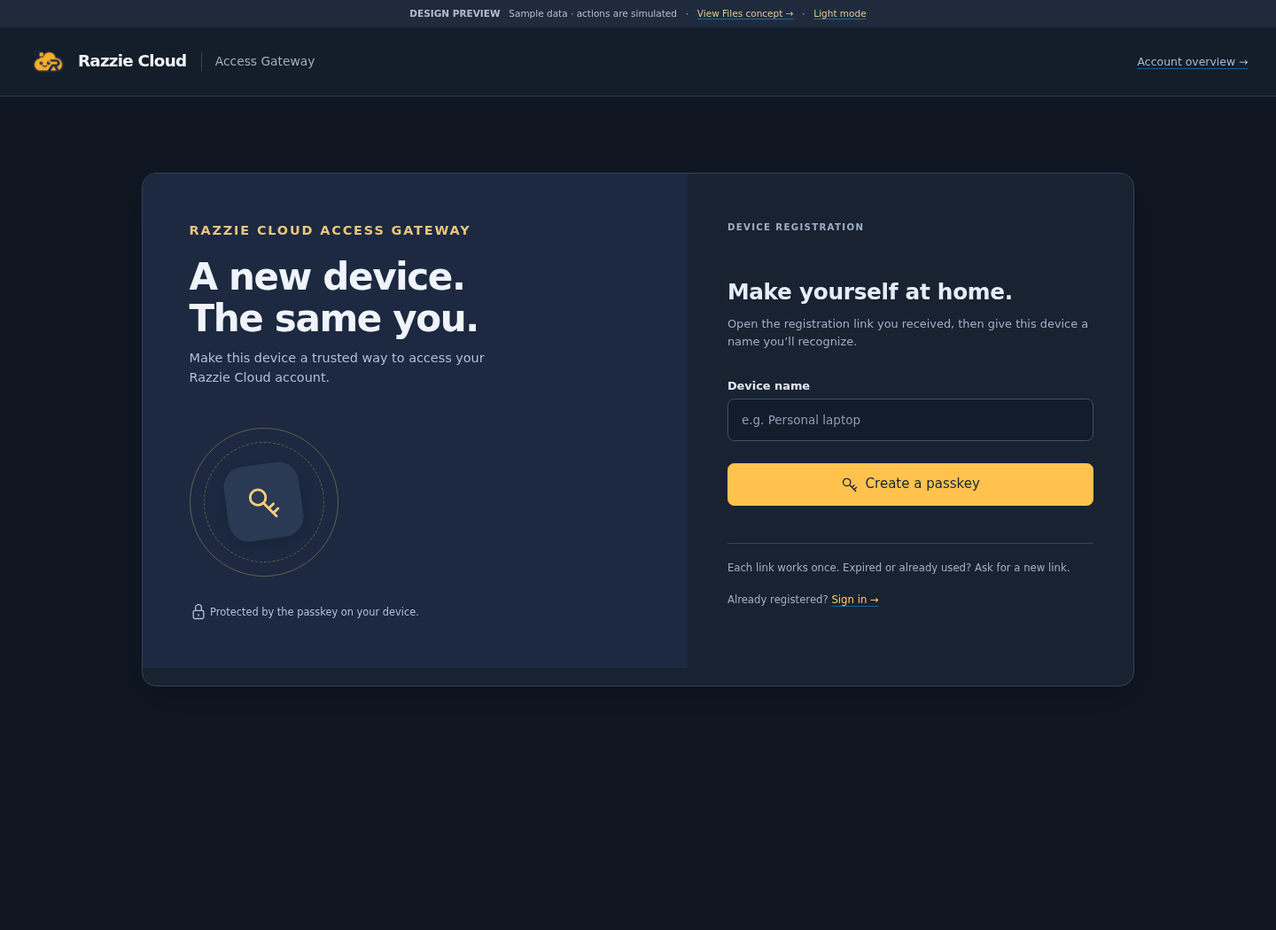
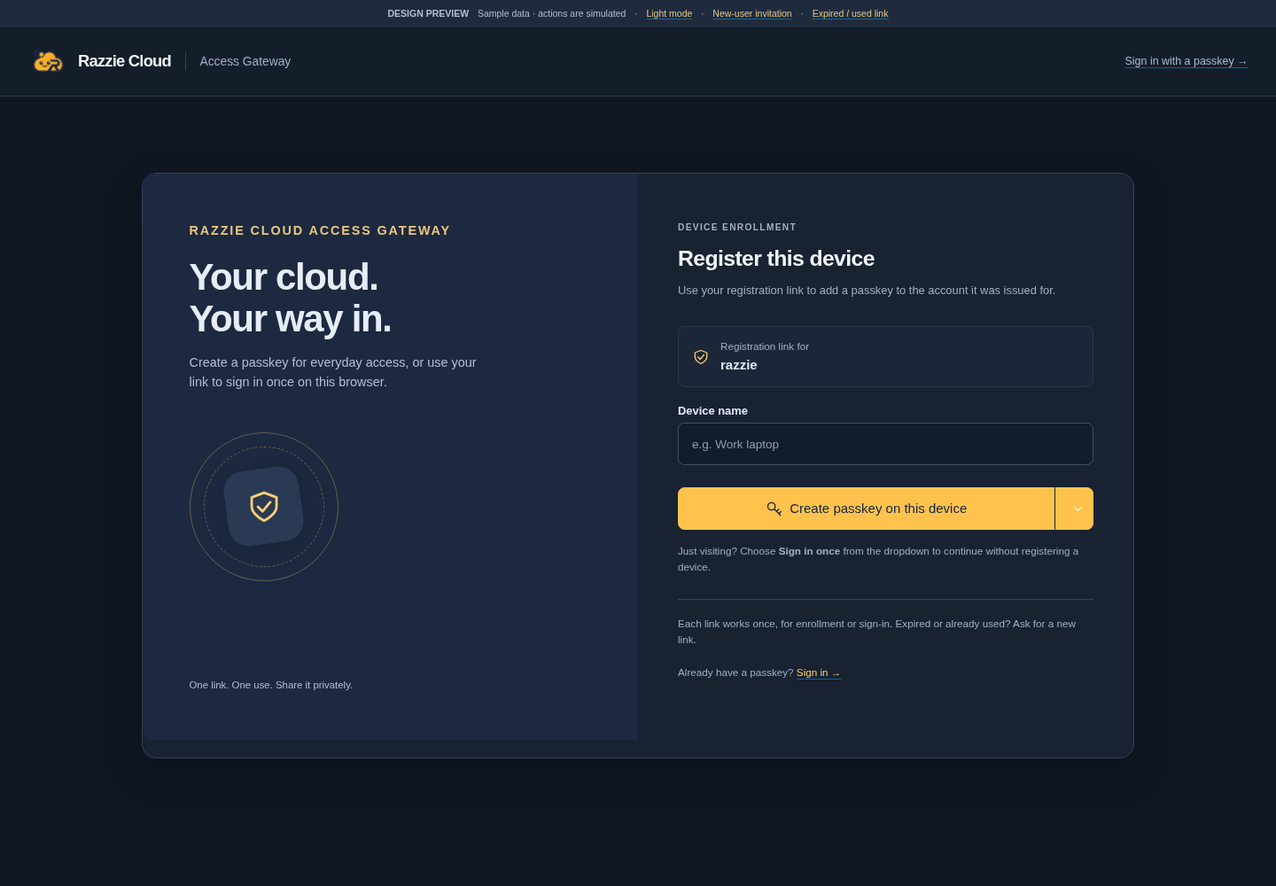
Mock up one-time login from registration links

diff --git a/docs/mockups/dark/register.html b/docs/mockups/dark/register.html
@@ -2,8 +2,22 @@
 <html lang="en" data-theme="dark"><head>
 <meta charset="utf-8"><meta name="viewport" content="width=device-width, initial-scale=1">
 <meta name="htmx-config" content='{"allowEval":false,"includeIndicatorStyles":false,"selfRequestsOnly":true,"historyCacheSize":0}'>
-<meta http-equiv="Content-Security-Policy" content="default-src 'self'; script-src 'self'; style-src 'self'; img-src 'self' data:; connect-src 'self'; object-src 'none'; base-uri 'none'">
-<link rel="icon" href="../../../internal/web/static/razzie-cloud-logo.png"><meta name="referrer" content="no-referrer"><title>Device registration · Access Gateway concept · Dark</title>
-<link rel="stylesheet" href="../../../internal/web/static/pico.min.css"><link rel="stylesheet" href="../mockup.css"><link rel="stylesheet" href="../dark.css">
+<meta http-equiv="Content-Security-Policy" content="default-src 'self'; script-src 'self'; style-src 'self'; img-src 'self' data:; connect-src 'self'; object-src 'none'; base-uri 'none'; form-action 'self'">
+<meta name="referrer" content="no-referrer"><title>Registration link · Access Gateway concept</title>
+<link rel="icon" href="../../../internal/web/static/razzie-cloud-logo.png"><link rel="stylesheet" href="../../../internal/web/static/pico.min.css"><link rel="stylesheet" href="../mockup.css">
+<link rel="stylesheet" href="../dark.css"><link rel="stylesheet" href="../register.css">
 <script defer src="../../../internal/web/static/htmx.min.js"></script></head><body>
-<a href="#main" class="skip-link">Skip to content</a><div class="preview-bar"><strong>DESIGN PREVIEW</strong><span>Sample data · actions are simulated</span><span>·</span><a href="../../../../files/docs/mockups/dark/index.html">View Files concept →</a><span>·</span><a href="../register.html">Light mode</a></div><header class="topbar"><a class="brand" href="index.html"><img class="brand-mark" src="../../../internal/web/static/razzie-cloud-logo.png" width="46" height="46" alt="">Razzie Cloud<span class="service-name">Access Gateway</span></a><div class="topbar-right"><a href="index.html">Account overview →</a></div></header><main id="main"><div class="auth-wrap"><section class="auth-story"><p class="eyebrow">Razzie Cloud Access Gateway</p><h1>A new device.<br>The same you.</h1><p>Make this device a trusted way to access your Razzie Cloud account.</p><div class="auth-art"><span><svg class="icon " width="20" height="20" viewBox="0 0 24 24" fill="none" stroke="currentColor" stroke-width="1.6" stroke-linecap="round" stroke-linejoin="round" aria-hidden="true"><circle cx="8" cy="9" r="5"/><path d="m12 13 8 8m-2-2 3-3m-6 0 3-3"/></svg></span></div><p class="story-footer"><svg class="icon " width="20" height="20" viewBox="0 0 24 24" fill="none" stroke="currentColor" stroke-width="1.6" stroke-linecap="round" stroke-linejoin="round" aria-hidden="true"><rect x="5" y="10" width="14" height="11" rx="2"/><path d="M8 10V6a4 4 0 0 1 8 0v4m-4 5v2"/></svg> Protected by the passkey on your device.</p></section><section class="auth-form"><p class="eyebrow">Device registration</p><h2>Make yourself at home.</h2><p>Open the registration link you received, then give this device a name you’ll recognize.</p><form action="../fragments/registered.html" hx-get="../fragments/registered.html" hx-target="#auth-result"><label>Device name<input name="deviceName" maxlength="80" required autocomplete="off" placeholder="e.g. Personal laptop"></label><button type="submit"><svg class="icon " width="20" height="20" viewBox="0 0 24 24" fill="none" stroke="currentColor" stroke-width="1.6" stroke-linecap="round" stroke-linejoin="round" aria-hidden="true"><circle cx="8" cy="9" r="5"/><path d="m12 13 8 8m-2-2 3-3m-6 0 3-3"/></svg>Create a passkey</button></form><div id="auth-result" role="status"></div><p class="auth-footnote">Each link works once. Expired or already used? Ask for a new link.<br><br>Already registered? <a href="login.html">Sign in →</a></p></section></div></main></body></html>
+<a href="#main" class="skip-link">Skip to content</a>
+<div class="preview-bar"><strong>DESIGN PREVIEW</strong><span>Sample data · actions are simulated</span><span>·</span><a href="../register.html">Light mode</a><span>·</span><a href="register-invitation.html">New-user invitation</a> · <a href="fragments/registration-unavailable.html" hx-get="fragments/registration-unavailable.html" hx-params="none" hx-target="#registration-panel" >Expired / used link</a></div>
+<header class="topbar"><div class="brand-group"><a class="brand" href="../../../../landing/index.html"><img class="brand-mark" src="../../../internal/web/static/razzie-cloud-logo.png" width="46" height="46" alt="">Razzie Cloud</a><a class="service-name" href="index.html">Access Gateway</a></div><div class="topbar-right"><a href="login.html">Sign in with a passkey →</a></div></header>
+<main id="main"><div class="auth-wrap"><section class="auth-story"><p class="eyebrow">Razzie Cloud Access Gateway</p><h2>Your cloud.<br>Your way in.</h2><p>Create a passkey for everyday access, or use your link to sign in once on this browser.</p><div class="auth-art"><span><svg class="icon" width="20" height="20" viewBox="0 0 24 24" fill="none" stroke="currentColor" stroke-width="1.6" stroke-linecap="round" stroke-linejoin="round" aria-hidden="true"><path d="m12 3 8 3v6c0 5-8 9-8 9s-8-4-8-9V6Z"/><path d="m8 12 3 3 5-6"/></svg></span></div><p class="story-footer">One link. One use. Share it privately.</p></section>
+<section class="auth-form" id="registration-panel" aria-label="Use your registration link"><p class="eyebrow">Device enrollment</p><h1>Register this device</h1><p>Use your registration link to add a passkey to the account it was issued for.</p>
+<form action="fragments/registered.html" hx-get="fragments/registered.html" hx-params="none" hx-target="#registration-panel"><div class="link-context"><svg class="icon" width="20" height="20" viewBox="0 0 24 24" fill="none" stroke="currentColor" stroke-width="1.6" stroke-linecap="round" stroke-linejoin="round" aria-hidden="true"><path d="m12 3 8 3v6c0 5-8 9-8 9s-8-4-8-9V6Z"/><path d="m8 12 3 3 5-6"/></svg><div><small>Registration link for</small><strong>razzie</strong></div></div>
+<label>Device name<input id="device-name" maxlength="80" required autocomplete="off" placeholder="e.g. Work laptop"></label>
+<div role="group" class="registration-actions" aria-label="Registration link action">
+<button id="registration-submit" type="submit"><svg class="icon" width="20" height="20" viewBox="0 0 24 24" fill="none" stroke="currentColor" stroke-width="1.6" stroke-linecap="round" stroke-linejoin="round" aria-hidden="true"><circle cx="8" cy="9" r="5"/><path d="m12 13 8 8m-2-2 3-3m-6 0 3-3"/></svg><span>Create passkey on this device</span></button>
+<details class="dropdown"><summary role="button" aria-label="Choose how to use this link"></summary><ul>
+<li><a href="fragments/registration-enroll.html" hx-get="fragments/registration-enroll.html" hx-params="none" hx-target="#registration-panel" aria-current="true"><strong>Create a passkey</strong><small>Register this device · Default</small></a></li>
+<li><a href="fragments/login-once.html" hx-get="fragments/login-once.html" hx-params="none" hx-target="#registration-panel" aria-current="false"><strong>Sign in once</strong><small>Use this browser without adding a device</small></a></li>
+</ul></details></div></form>
+<p class="action-help">Just visiting? Choose <strong>Sign in once</strong> from the dropdown to continue without registering a device.</p><p class="auth-footnote">Each link works once, for enrollment or sign-in. Expired or already used? Ask for a new link.<br><br>Already have a passkey? <a href="login.html">Sign in →</a></p></section></div></main></body></html>

diff --git a/docs/mockups/register.html b/docs/mockups/register.html
@@ -2,8 +2,22 @@
 <html lang="en" data-theme="light"><head>
 <meta charset="utf-8"><meta name="viewport" content="width=device-width, initial-scale=1">
 <meta name="htmx-config" content='{"allowEval":false,"includeIndicatorStyles":false,"selfRequestsOnly":true,"historyCacheSize":0}'>
-<meta http-equiv="Content-Security-Policy" content="default-src 'self'; script-src 'self'; style-src 'self'; img-src 'self' data:; connect-src 'self'; object-src 'none'; base-uri 'none'">
-<link rel="icon" href="../../internal/web/static/razzie-cloud-logo.png"><meta name="referrer" content="no-referrer"><title>Device registration · Access Gateway concept</title>
-<link rel="stylesheet" href="../../internal/web/static/pico.min.css"><link rel="stylesheet" href="mockup.css">
+<meta http-equiv="Content-Security-Policy" content="default-src 'self'; script-src 'self'; style-src 'self'; img-src 'self' data:; connect-src 'self'; object-src 'none'; base-uri 'none'; form-action 'self'">
+<meta name="referrer" content="no-referrer"><title>Registration link · Access Gateway concept</title>
+<link rel="icon" href="../../internal/web/static/razzie-cloud-logo.png"><link rel="stylesheet" href="../../internal/web/static/pico.min.css"><link rel="stylesheet" href="mockup.css">
+<link rel="stylesheet" href="register.css">
 <script defer src="../../internal/web/static/htmx.min.js"></script></head><body>
-<a href="#main" class="skip-link">Skip to content</a><div class="preview-bar"><strong>DESIGN PREVIEW</strong><span>Sample data · actions are simulated</span><span>·</span><a href="../../../files/docs/mockups/index.html">View Files concept →</a><span>·</span><a href="dark/register.html">Dark mode</a></div><header class="topbar"><a class="brand" href="index.html"><img class="brand-mark" src="../../internal/web/static/razzie-cloud-logo.png" width="46" height="46" alt="">Razzie Cloud<span class="service-name">Access Gateway</span></a><div class="topbar-right"><a href="index.html">Account overview →</a></div></header><main id="main"><div class="auth-wrap"><section class="auth-story"><p class="eyebrow">Razzie Cloud Access Gateway</p><h1>A new device.<br>The same you.</h1><p>Make this device a trusted way to access your Razzie Cloud account.</p><div class="auth-art"><span><svg class="icon " width="20" height="20" viewBox="0 0 24 24" fill="none" stroke="currentColor" stroke-width="1.6" stroke-linecap="round" stroke-linejoin="round" aria-hidden="true"><circle cx="8" cy="9" r="5"/><path d="m12 13 8 8m-2-2 3-3m-6 0 3-3"/></svg></span></div><p class="story-footer"><svg class="icon " width="20" height="20" viewBox="0 0 24 24" fill="none" stroke="currentColor" stroke-width="1.6" stroke-linecap="round" stroke-linejoin="round" aria-hidden="true"><rect x="5" y="10" width="14" height="11" rx="2"/><path d="M8 10V6a4 4 0 0 1 8 0v4m-4 5v2"/></svg> Protected by the passkey on your device.</p></section><section class="auth-form"><p class="eyebrow">Device registration</p><h2>Make yourself at home.</h2><p>Open the registration link you received, then give this device a name you’ll recognize.</p><form action="fragments/registered.html" hx-get="fragments/registered.html" hx-target="#auth-result"><label>Device name<input name="deviceName" maxlength="80" required autocomplete="off" placeholder="e.g. Personal laptop"></label><button type="submit"><svg class="icon " width="20" height="20" viewBox="0 0 24 24" fill="none" stroke="currentColor" stroke-width="1.6" stroke-linecap="round" stroke-linejoin="round" aria-hidden="true"><circle cx="8" cy="9" r="5"/><path d="m12 13 8 8m-2-2 3-3m-6 0 3-3"/></svg>Create a passkey</button></form><div id="auth-result" role="status"></div><p class="auth-footnote">Each link works once. Expired or already used? Ask for a new link.<br><br>Already registered? <a href="login.html">Sign in →</a></p></section></div></main></body></html>
+<a href="#main" class="skip-link">Skip to content</a>
+<div class="preview-bar"><strong>DESIGN PREVIEW</strong><span>Sample data · actions are simulated</span><span>·</span><a href="dark/register.html">Dark mode</a><span>·</span><a href="register-invitation.html">New-user invitation</a> · <a href="fragments/registration-unavailable.html" hx-get="fragments/registration-unavailable.html" hx-params="none" hx-target="#registration-panel" >Expired / used link</a></div>
+<header class="topbar"><div class="brand-group"><a class="brand" href="../../../landing/index.html"><img class="brand-mark" src="../../internal/web/static/razzie-cloud-logo.png" width="46" height="46" alt="">Razzie Cloud</a><a class="service-name" href="index.html">Access Gateway</a></div><div class="topbar-right"><a href="login.html">Sign in with a passkey →</a></div></header>
+<main id="main"><div class="auth-wrap"><section class="auth-story"><p class="eyebrow">Razzie Cloud Access Gateway</p><h2>Your cloud.<br>Your way in.</h2><p>Create a passkey for everyday access, or use your link to sign in once on this browser.</p><div class="auth-art"><span><svg class="icon" width="20" height="20" viewBox="0 0 24 24" fill="none" stroke="currentColor" stroke-width="1.6" stroke-linecap="round" stroke-linejoin="round" aria-hidden="true"><path d="m12 3 8 3v6c0 5-8 9-8 9s-8-4-8-9V6Z"/><path d="m8 12 3 3 5-6"/></svg></span></div><p class="story-footer">One link. One use. Share it privately.</p></section>
+<section class="auth-form" id="registration-panel" aria-label="Use your registration link"><p class="eyebrow">Device enrollment</p><h1>Register this device</h1><p>Use your registration link to add a passkey to the account it was issued for.</p>
+<form action="fragments/registered.html" hx-get="fragments/registered.html" hx-params="none" hx-target="#registration-panel"><div class="link-context"><svg class="icon" width="20" height="20" viewBox="0 0 24 24" fill="none" stroke="currentColor" stroke-width="1.6" stroke-linecap="round" stroke-linejoin="round" aria-hidden="true"><path d="m12 3 8 3v6c0 5-8 9-8 9s-8-4-8-9V6Z"/><path d="m8 12 3 3 5-6"/></svg><div><small>Registration link for</small><strong>razzie</strong></div></div>
+<label>Device name<input id="device-name" maxlength="80" required autocomplete="off" placeholder="e.g. Work laptop"></label>
+<div role="group" class="registration-actions" aria-label="Registration link action">
+<button id="registration-submit" type="submit"><svg class="icon" width="20" height="20" viewBox="0 0 24 24" fill="none" stroke="currentColor" stroke-width="1.6" stroke-linecap="round" stroke-linejoin="round" aria-hidden="true"><circle cx="8" cy="9" r="5"/><path d="m12 13 8 8m-2-2 3-3m-6 0 3-3"/></svg><span>Create passkey on this device</span></button>
+<details class="dropdown"><summary role="button" aria-label="Choose how to use this link"></summary><ul>
+<li><a href="fragments/registration-enroll.html" hx-get="fragments/registration-enroll.html" hx-params="none" hx-target="#registration-panel" aria-current="true"><strong>Create a passkey</strong><small>Register this device · Default</small></a></li>
+<li><a href="fragments/login-once.html" hx-get="fragments/login-once.html" hx-params="none" hx-target="#registration-panel" aria-current="false"><strong>Sign in once</strong><small>Use this browser without adding a device</small></a></li>
+</ul></details></div></form>
+<p class="action-help">Just visiting? Choose <strong>Sign in once</strong> from the dropdown to continue without registering a device.</p><p class="auth-footnote">Each link works once, for enrollment or sign-in. Expired or already used? Ask for a new link.<br><br>Already have a passkey? <a href="login.html">Sign in →</a></p></section></div></main></body></html>

diff --git a/docs/mockups/dark/register-invitation.html b/docs/mockups/dark/register-invitation.html
@@ -1,0 +1,18 @@
+<!doctype html>
+<html lang="en" data-theme="dark"><head>
+<meta charset="utf-8"><meta name="viewport" content="width=device-width, initial-scale=1">
+<meta name="htmx-config" content='{"allowEval":false,"includeIndicatorStyles":false,"selfRequestsOnly":true,"historyCacheSize":0}'>
+<meta http-equiv="Content-Security-Policy" content="default-src 'self'; script-src 'self'; style-src 'self'; img-src 'self' data:; connect-src 'self'; object-src 'none'; base-uri 'none'; form-action 'self'">
+<meta name="referrer" content="no-referrer"><title>Registration link · Access Gateway concept</title>
+<link rel="icon" href="../../../internal/web/static/razzie-cloud-logo.png"><link rel="stylesheet" href="../../../internal/web/static/pico.min.css"><link rel="stylesheet" href="../mockup.css">
+<link rel="stylesheet" href="../dark.css"><link rel="stylesheet" href="../register.css">
+<script defer src="../../../internal/web/static/htmx.min.js"></script></head><body>
+<a href="#main" class="skip-link">Skip to content</a>
+<div class="preview-bar"><strong>DESIGN PREVIEW</strong><span>Sample data · actions are simulated</span><span>·</span><a href="../register-invitation.html">Light mode</a><span>·</span><a href="register.html">Existing account</a> · <a href="fragments/registration-unavailable.html" hx-get="fragments/registration-unavailable.html" hx-params="none" hx-target="#registration-panel" >Expired / used link</a></div>
+<header class="topbar"><div class="brand-group"><a class="brand" href="../../../../landing/index.html"><img class="brand-mark" src="../../../internal/web/static/razzie-cloud-logo.png" width="46" height="46" alt="">Razzie Cloud</a><a class="service-name" href="index.html">Access Gateway</a></div><div class="topbar-right"><a href="login.html">Sign in with a passkey →</a></div></header>
+<main id="main"><div class="auth-wrap"><section class="auth-story"><p class="eyebrow">Razzie Cloud Access Gateway</p><h2>Your cloud.<br>Your way in.</h2><p>Create a passkey for everyday access, or use your link to sign in once on this browser.</p><div class="auth-art"><span><svg class="icon" width="20" height="20" viewBox="0 0 24 24" fill="none" stroke="currentColor" stroke-width="1.6" stroke-linecap="round" stroke-linejoin="round" aria-hidden="true"><path d="m12 3 8 3v6c0 5-8 9-8 9s-8-4-8-9V6Z"/><path d="m8 12 3 3 5-6"/></svg></span></div><p class="story-footer">One link. One use. Share it privately.</p></section>
+<section class="auth-form" id="registration-panel" aria-label="Use your registration link"><p class="eyebrow">New-user invitation</p><h1>Create your account</h1><p>Choose a username and create your first passkey to set up your account.</p>
+<form action="fragments/registered.html" hx-get="fragments/registered.html" hx-params="none" hx-target="#registration-panel"><label>Choose your username<input id="invitation-username" maxlength="64" pattern="[A-Za-z0-9_.\-]{1,64}" autocomplete="username" autocapitalize="none" spellcheck="false" required placeholder="e.g. alex"></label>
+<label>Device name<input id="device-name" maxlength="80" required autocomplete="off" placeholder="e.g. Work laptop"></label>
+<button type="submit"><svg class="icon" width="20" height="20" viewBox="0 0 24 24" fill="none" stroke="currentColor" stroke-width="1.6" stroke-linecap="round" stroke-linejoin="round" aria-hidden="true"><circle cx="8" cy="9" r="5"/><path d="m12 13 8 8m-2-2 3-3m-6 0 3-3"/></svg>Create account and passkey</button></form>
+<p class="action-help">Your first passkey is required to create an account. One-time login is available for existing accounts.</p><p class="auth-footnote">Each link works once, for enrollment or sign-in. Expired or already used? Ask for a new link.<br><br>Already have a passkey? <a href="login.html">Sign in →</a></p></section></div></main></body></html>

diff --git a/docs/mockups/register-invitation.html b/docs/mockups/register-invitation.html
@@ -1,0 +1,18 @@
+<!doctype html>
+<html lang="en" data-theme="light"><head>
+<meta charset="utf-8"><meta name="viewport" content="width=device-width, initial-scale=1">
+<meta name="htmx-config" content='{"allowEval":false,"includeIndicatorStyles":false,"selfRequestsOnly":true,"historyCacheSize":0}'>
+<meta http-equiv="Content-Security-Policy" content="default-src 'self'; script-src 'self'; style-src 'self'; img-src 'self' data:; connect-src 'self'; object-src 'none'; base-uri 'none'; form-action 'self'">
+<meta name="referrer" content="no-referrer"><title>Registration link · Access Gateway concept</title>
+<link rel="icon" href="../../internal/web/static/razzie-cloud-logo.png"><link rel="stylesheet" href="../../internal/web/static/pico.min.css"><link rel="stylesheet" href="mockup.css">
+<link rel="stylesheet" href="register.css">
+<script defer src="../../internal/web/static/htmx.min.js"></script></head><body>
+<a href="#main" class="skip-link">Skip to content</a>
+<div class="preview-bar"><strong>DESIGN PREVIEW</strong><span>Sample data · actions are simulated</span><span>·</span><a href="dark/register-invitation.html">Dark mode</a><span>·</span><a href="register.html">Existing account</a> · <a href="fragments/registration-unavailable.html" hx-get="fragments/registration-unavailable.html" hx-params="none" hx-target="#registration-panel" >Expired / used link</a></div>
+<header class="topbar"><div class="brand-group"><a class="brand" href="../../../landing/index.html"><img class="brand-mark" src="../../internal/web/static/razzie-cloud-logo.png" width="46" height="46" alt="">Razzie Cloud</a><a class="service-name" href="index.html">Access Gateway</a></div><div class="topbar-right"><a href="login.html">Sign in with a passkey →</a></div></header>
+<main id="main"><div class="auth-wrap"><section class="auth-story"><p class="eyebrow">Razzie Cloud Access Gateway</p><h2>Your cloud.<br>Your way in.</h2><p>Create a passkey for everyday access, or use your link to sign in once on this browser.</p><div class="auth-art"><span><svg class="icon" width="20" height="20" viewBox="0 0 24 24" fill="none" stroke="currentColor" stroke-width="1.6" stroke-linecap="round" stroke-linejoin="round" aria-hidden="true"><path d="m12 3 8 3v6c0 5-8 9-8 9s-8-4-8-9V6Z"/><path d="m8 12 3 3 5-6"/></svg></span></div><p class="story-footer">One link. One use. Share it privately.</p></section>
+<section class="auth-form" id="registration-panel" aria-label="Use your registration link"><p class="eyebrow">New-user invitation</p><h1>Create your account</h1><p>Choose a username and create your first passkey to set up your account.</p>
+<form action="fragments/registered.html" hx-get="fragments/registered.html" hx-params="none" hx-target="#registration-panel"><label>Choose your username<input id="invitation-username" maxlength="64" pattern="[A-Za-z0-9_.\-]{1,64}" autocomplete="username" autocapitalize="none" spellcheck="false" required placeholder="e.g. alex"></label>
+<label>Device name<input id="device-name" maxlength="80" required autocomplete="off" placeholder="e.g. Work laptop"></label>
+<button type="submit"><svg class="icon" width="20" height="20" viewBox="0 0 24 24" fill="none" stroke="currentColor" stroke-width="1.6" stroke-linecap="round" stroke-linejoin="round" aria-hidden="true"><circle cx="8" cy="9" r="5"/><path d="m12 13 8 8m-2-2 3-3m-6 0 3-3"/></svg>Create account and passkey</button></form>
+<p class="action-help">Your first passkey is required to create an account. One-time login is available for existing accounts.</p><p class="auth-footnote">Each link works once, for enrollment or sign-in. Expired or already used? Ask for a new link.<br><br>Already have a passkey? <a href="login.html">Sign in →</a></p></section></div></main></body></html>

diff --git a/docs/mockups/register.css b/docs/mockups/register.css
@@ -1,0 +1,35 @@
+/* Registration-link concept: Pico group + native dropdown, with HTMX fixtures. */
+:root { --app-max-width: 1680px; }
+.topbar { height: auto; min-height: 78px; max-width: var(--app-max-width); margin-inline: auto; }
+.brand-group { display: flex; align-items: center; flex-wrap: wrap; gap: .7rem; min-width: 0; }
+.brand-group .service-name { text-decoration: none; white-space: nowrap; }
+.auth-wrap { overflow: visible; grid-template-columns: minmax(0,1fr) minmax(0,1fr); }
+.auth-story { border-radius: .85rem 0 0 .85rem; }
+.auth-story h2 { font-size: 2.8rem; line-height: 1.12; letter-spacing: -.09rem; margin: .4rem 0 1rem; }
+.auth-form { min-width: 0; }
+.auth-form h1 { font-size: 1.65rem; margin: 0 0 .8rem; letter-spacing: -.04rem; }
+.auth-form .link-context { display: flex; align-items: center; gap: .8rem; padding: .85rem 1rem; margin-bottom: 1.1rem; background: var(--pico-card-sectioning-background-color); border: 1px solid var(--pico-muted-border-color); border-radius: .5rem; }
+.link-context strong,.link-context small { display: block; }
+.link-context small { font-size: .78rem; }
+.link-context>.icon { color: var(--pico-primary); }
+.registration-actions[role="group"] { margin-top: .3rem; margin-bottom: 0; }
+.registration-actions>button { width: auto; margin: 0; padding-inline: .75rem; white-space: normal; }
+.registration-actions>details.dropdown { flex: 0 0 44px; margin: 0; }
+.registration-actions>details>summary[role="button"] { height: 100%; width: 44px; margin: 0; padding: .65rem; border-radius: 0 var(--pico-border-radius) var(--pico-border-radius) 0; border-left: 1px solid var(--pico-primary-inverse); }
+.registration-actions details.dropdown>ul { width: max-content; min-width: 100%; max-width: calc(100vw - 6rem); right: 0; left: auto; }
+.registration-actions details.dropdown>ul a { white-space: normal; }
+.registration-actions details.dropdown>ul small { display: block; font-size: .74rem; }
+.registration-actions a[aria-current="true"] { background: var(--pico-dropdown-hover-background-color); }
+.registration-actions :focus-visible { outline: 2px solid var(--pico-primary); outline-offset: 3px; }
+.auth-form .action-help { font-size: .78rem; color: var(--pico-muted-color); margin: 1rem 0 0; }
+.auth-form .notice p { margin: .5rem 0 0; }
+.link-error { padding: 1rem; margin-bottom: 1.5rem; border: 1px solid var(--pico-del-color); border-radius: .5rem; }
+@media(max-width:760px) {
+ .brand { flex-wrap: wrap; }
+ .auth-wrap { grid-template-columns: minmax(0,1fr); }
+ .auth-story { border-radius: .85rem .85rem 0 0; min-height: 0; padding: 1.5rem 2rem; }
+ .auth-story h2 { font-size: 2rem; }
+ .auth-story>p { max-width: none; }
+ .auth-story .story-footer { margin-top: .8rem; }
+ .auth-form { padding: 2rem 1.25rem; }
+}

diff --git a/docs/mockups/dark/fragments/registration-enroll.html b/docs/mockups/dark/fragments/registration-enroll.html
@@ -1,0 +1,10 @@
+<p class="eyebrow">Device enrollment</p><h1>Register this device</h1><p>Use your registration link to add a passkey to the account it was issued for.</p>
+<form action="fragments/registered.html" hx-get="fragments/registered.html" hx-params="none" hx-target="#registration-panel"><div class="link-context"><svg class="icon" width="20" height="20" viewBox="0 0 24 24" fill="none" stroke="currentColor" stroke-width="1.6" stroke-linecap="round" stroke-linejoin="round" aria-hidden="true"><path d="m12 3 8 3v6c0 5-8 9-8 9s-8-4-8-9V6Z"/><path d="m8 12 3 3 5-6"/></svg><div><small>Registration link for</small><strong>razzie</strong></div></div>
+<label>Device name<input id="device-name" maxlength="80" required autocomplete="off" placeholder="e.g. Work laptop"></label>
+<div role="group" class="registration-actions" aria-label="Registration link action">
+<button id="registration-submit" type="submit"><svg class="icon" width="20" height="20" viewBox="0 0 24 24" fill="none" stroke="currentColor" stroke-width="1.6" stroke-linecap="round" stroke-linejoin="round" aria-hidden="true"><circle cx="8" cy="9" r="5"/><path d="m12 13 8 8m-2-2 3-3m-6 0 3-3"/></svg><span>Create passkey on this device</span></button>
+<details class="dropdown"><summary role="button" aria-label="Choose how to use this link"></summary><ul>
+<li><a href="fragments/registration-enroll.html" hx-get="fragments/registration-enroll.html" hx-params="none" hx-target="#registration-panel" aria-current="true"><strong>Create a passkey</strong><small>Register this device · Default</small></a></li>
+<li><a href="fragments/login-once.html" hx-get="fragments/login-once.html" hx-params="none" hx-target="#registration-panel" aria-current="false"><strong>Sign in once</strong><small>Use this browser without adding a device</small></a></li>
+</ul></details></div></form>
+<p class="action-help">Just visiting? Choose <strong>Sign in once</strong> from the dropdown to continue without registering a device.</p><p class="auth-footnote">Each link works once, for enrollment or sign-in. Expired or already used? Ask for a new link.<br><br>Already have a passkey? <a href="login.html">Sign in →</a></p>

diff --git a/docs/mockups/fragments/registration-enroll.html b/docs/mockups/fragments/registration-enroll.html
@@ -1,0 +1,10 @@
+<p class="eyebrow">Device enrollment</p><h1>Register this device</h1><p>Use your registration link to add a passkey to the account it was issued for.</p>
+<form action="fragments/registered.html" hx-get="fragments/registered.html" hx-params="none" hx-target="#registration-panel"><div class="link-context"><svg class="icon" width="20" height="20" viewBox="0 0 24 24" fill="none" stroke="currentColor" stroke-width="1.6" stroke-linecap="round" stroke-linejoin="round" aria-hidden="true"><path d="m12 3 8 3v6c0 5-8 9-8 9s-8-4-8-9V6Z"/><path d="m8 12 3 3 5-6"/></svg><div><small>Registration link for</small><strong>razzie</strong></div></div>
+<label>Device name<input id="device-name" maxlength="80" required autocomplete="off" placeholder="e.g. Work laptop"></label>
+<div role="group" class="registration-actions" aria-label="Registration link action">
+<button id="registration-submit" type="submit"><svg class="icon" width="20" height="20" viewBox="0 0 24 24" fill="none" stroke="currentColor" stroke-width="1.6" stroke-linecap="round" stroke-linejoin="round" aria-hidden="true"><circle cx="8" cy="9" r="5"/><path d="m12 13 8 8m-2-2 3-3m-6 0 3-3"/></svg><span>Create passkey on this device</span></button>
+<details class="dropdown"><summary role="button" aria-label="Choose how to use this link"></summary><ul>
+<li><a href="fragments/registration-enroll.html" hx-get="fragments/registration-enroll.html" hx-params="none" hx-target="#registration-panel" aria-current="true"><strong>Create a passkey</strong><small>Register this device · Default</small></a></li>
+<li><a href="fragments/login-once.html" hx-get="fragments/login-once.html" hx-params="none" hx-target="#registration-panel" aria-current="false"><strong>Sign in once</strong><small>Use this browser without adding a device</small></a></li>
+</ul></details></div></form>
+<p class="action-help">Just visiting? Choose <strong>Sign in once</strong> from the dropdown to continue without registering a device.</p><p class="auth-footnote">Each link works once, for enrollment or sign-in. Expired or already used? Ask for a new link.<br><br>Already have a passkey? <a href="login.html">Sign in →</a></p>

diff --git a/docs/mockups/dark/fragments/login-once.html b/docs/mockups/dark/fragments/login-once.html
@@ -1,0 +1,10 @@
+<p class="eyebrow">One-time login</p><h1>Sign in on this browser</h1>
+<p>Use your registration link to sign in to <strong>razzie</strong>. No passkey will be created.</p>
+<div class="link-context"><svg class="icon" width="20" height="20" viewBox="0 0 24 24" fill="none" stroke="currentColor" stroke-width="1.6" stroke-linecap="round" stroke-linejoin="round" aria-hidden="true"><path d="m12 3 8 3v6c0 5-8 9-8 9s-8-4-8-9V6Z"/><path d="m8 12 3 3 5-6"/></svg><div><strong>This browser only</strong><small>The link is consumed when you sign in. Signing out ends this access; use a passkey or a new link to return.</small></div></div>
+<form action="fragments/login-once-success.html" hx-get="fragments/login-once-success.html" hx-params="none" hx-target="#registration-panel"><div role="group" class="registration-actions" aria-label="Registration link action">
+<button id="registration-submit" type="submit" autofocus><svg class="icon" width="20" height="20" viewBox="0 0 24 24" fill="none" stroke="currentColor" stroke-width="1.6" stroke-linecap="round" stroke-linejoin="round" aria-hidden="true"><path d="m12 3 8 3v6c0 5-8 9-8 9s-8-4-8-9V6Z"/><path d="m8 12 3 3 5-6"/></svg><span>Sign in once</span></button>
+<details class="dropdown"><summary role="button" aria-label="Choose how to use this link"></summary><ul>
+<li><a href="fragments/registration-enroll.html" hx-get="fragments/registration-enroll.html" hx-params="none" hx-target="#registration-panel" aria-current="false"><strong>Create a passkey</strong><small>Register this device · Default</small></a></li>
+<li><a href="fragments/login-once.html" hx-get="fragments/login-once.html" hx-params="none" hx-target="#registration-panel" aria-current="true"><strong>Sign in once</strong><small>Use this browser without adding a device</small></a></li>
+</ul></details></div></form>
+<p class="action-help">Want to keep using this device? Choose <strong>Create a passkey</strong> from the dropdown.</p><p class="auth-footnote">Each link works once, for enrollment or sign-in. Expired or already used? Ask for a new link.<br><br>Already have a passkey? <a href="login.html">Sign in →</a></p>

diff --git a/docs/mockups/fragments/login-once.html b/docs/mockups/fragments/login-once.html
@@ -1,0 +1,10 @@
+<p class="eyebrow">One-time login</p><h1>Sign in on this browser</h1>
+<p>Use your registration link to sign in to <strong>razzie</strong>. No passkey will be created.</p>
+<div class="link-context"><svg class="icon" width="20" height="20" viewBox="0 0 24 24" fill="none" stroke="currentColor" stroke-width="1.6" stroke-linecap="round" stroke-linejoin="round" aria-hidden="true"><path d="m12 3 8 3v6c0 5-8 9-8 9s-8-4-8-9V6Z"/><path d="m8 12 3 3 5-6"/></svg><div><strong>This browser only</strong><small>The link is consumed when you sign in. Signing out ends this access; use a passkey or a new link to return.</small></div></div>
+<form action="fragments/login-once-success.html" hx-get="fragments/login-once-success.html" hx-params="none" hx-target="#registration-panel"><div role="group" class="registration-actions" aria-label="Registration link action">
+<button id="registration-submit" type="submit" autofocus><svg class="icon" width="20" height="20" viewBox="0 0 24 24" fill="none" stroke="currentColor" stroke-width="1.6" stroke-linecap="round" stroke-linejoin="round" aria-hidden="true"><path d="m12 3 8 3v6c0 5-8 9-8 9s-8-4-8-9V6Z"/><path d="m8 12 3 3 5-6"/></svg><span>Sign in once</span></button>
+<details class="dropdown"><summary role="button" aria-label="Choose how to use this link"></summary><ul>
+<li><a href="fragments/registration-enroll.html" hx-get="fragments/registration-enroll.html" hx-params="none" hx-target="#registration-panel" aria-current="false"><strong>Create a passkey</strong><small>Register this device · Default</small></a></li>
+<li><a href="fragments/login-once.html" hx-get="fragments/login-once.html" hx-params="none" hx-target="#registration-panel" aria-current="true"><strong>Sign in once</strong><small>Use this browser without adding a device</small></a></li>
+</ul></details></div></form>
+<p class="action-help">Want to keep using this device? Choose <strong>Create a passkey</strong> from the dropdown.</p><p class="auth-footnote">Each link works once, for enrollment or sign-in. Expired or already used? Ask for a new link.<br><br>Already have a passkey? <a href="login.html">Sign in →</a></p>

diff --git a/docs/mockups/fragments/registered.html b/docs/mockups/fragments/registered.html
@@ -1,1 +1,1 @@
-<div class="notice">Passkey enrollment previewed. No authenticator was opened and no credential was created. Registration doesn’t sign you in. <a href="login.html">Continue to sign in →</a></div>
+<p class="eyebrow">Device enrollment</p><h1>Your passkey is ready</h1><div class="notice" role="status"><strong>Device enrollment previewed.</strong><p>No authenticator was opened and no credential was created. The live flow would sign in separately with the new passkey.</p></div><a href="login.html" role="button">Continue to sign in →</a>

diff --git a/docs/mockups/dark/fragments/login-once-success.html b/docs/mockups/dark/fragments/login-once-success.html
@@ -1,0 +1,1 @@
+<p class="eyebrow">One-time login</p><h1>You’re signed in</h1><div class="notice" role="status"><strong>One-time login previewed for razzie.</strong><p>The registration link is now shown as used. No passkey or registered device was added.</p></div><a href="index.html" role="button">View account overview →</a><p class="action-help">This is a simulated session. No authentication took place. The overview uses fixed sample devices and sessions.</p>

diff --git a/docs/mockups/fragments/login-once-success.html b/docs/mockups/fragments/login-once-success.html
@@ -1,0 +1,1 @@
+<p class="eyebrow">One-time login</p><h1>You’re signed in</h1><div class="notice" role="status"><strong>One-time login previewed for razzie.</strong><p>The registration link is now shown as used. No passkey or registered device was added.</p></div><a href="index.html" role="button">View account overview →</a><p class="action-help">This is a simulated session. No authentication took place. The overview uses fixed sample devices and sessions.</p>
